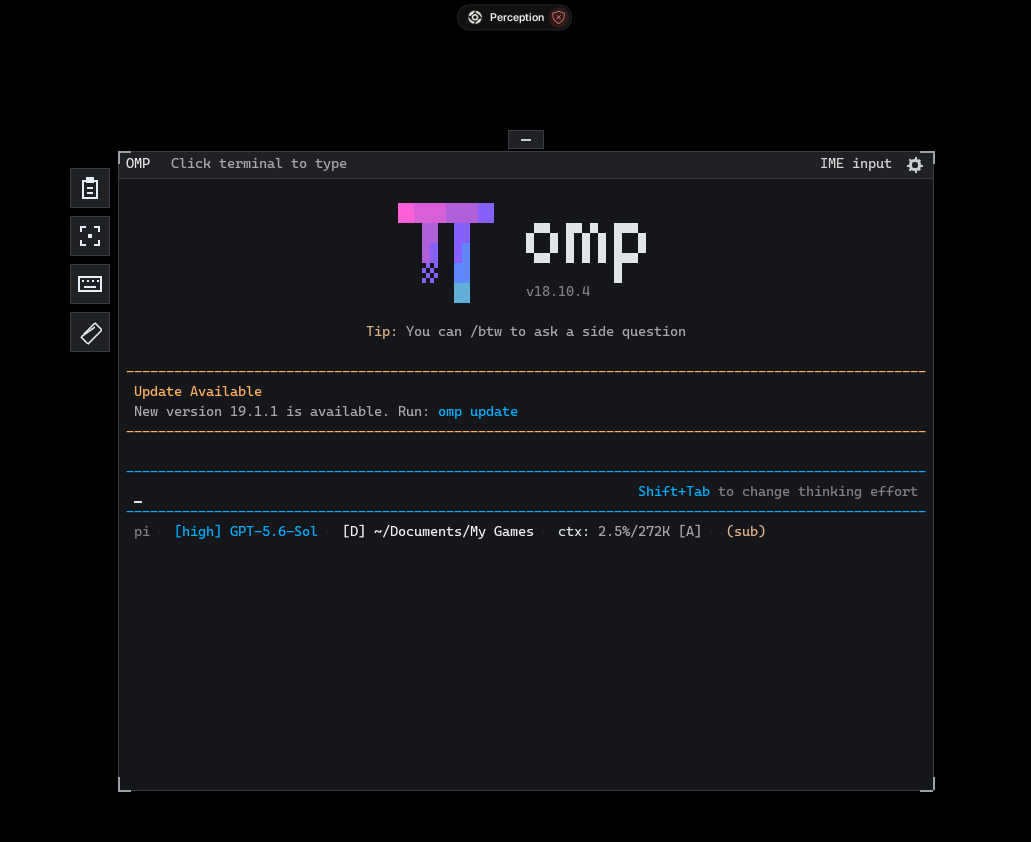
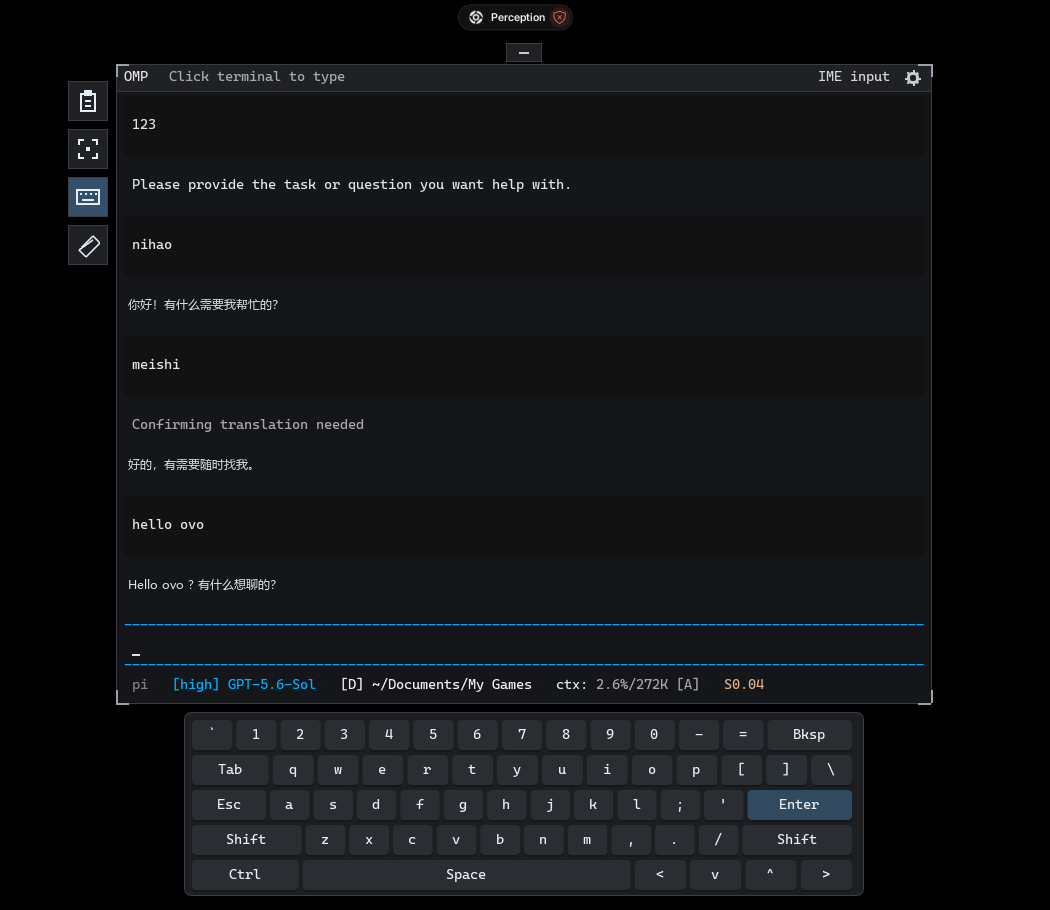
Show the running overlay in the README

Changed region(s): [[0.0621, 0.0, 0.9311, 0.9881], [0.3414, 0.6176, 0.5276, 0.6485], [0.2173, 0.8337, 0.2483, 0.8646]]

diff --git a/README.md b/README.md
@@ -2,7 +2,7 @@
 
 Run the native Oh My Pi (OMP) terminal in a Perception overlay on Windows. An Enma script renders the terminal and handles interaction. A local host runs OMP through Windows ConPTY. OMP manages its own models, sign-in, and session history. [Oh My Pi](https://github.com/can1357/oh-my-pi)
 
-![Oh My Pi running in the Perception overlay, with the side toolbar and resize handles visible](docs/omp-terminal.png)
+![Oh My Pi conversation in the Perception overlay, with the side toolbar and on-screen keyboard visible](docs/omp-terminal.png)
 
 ## Requirements
 
